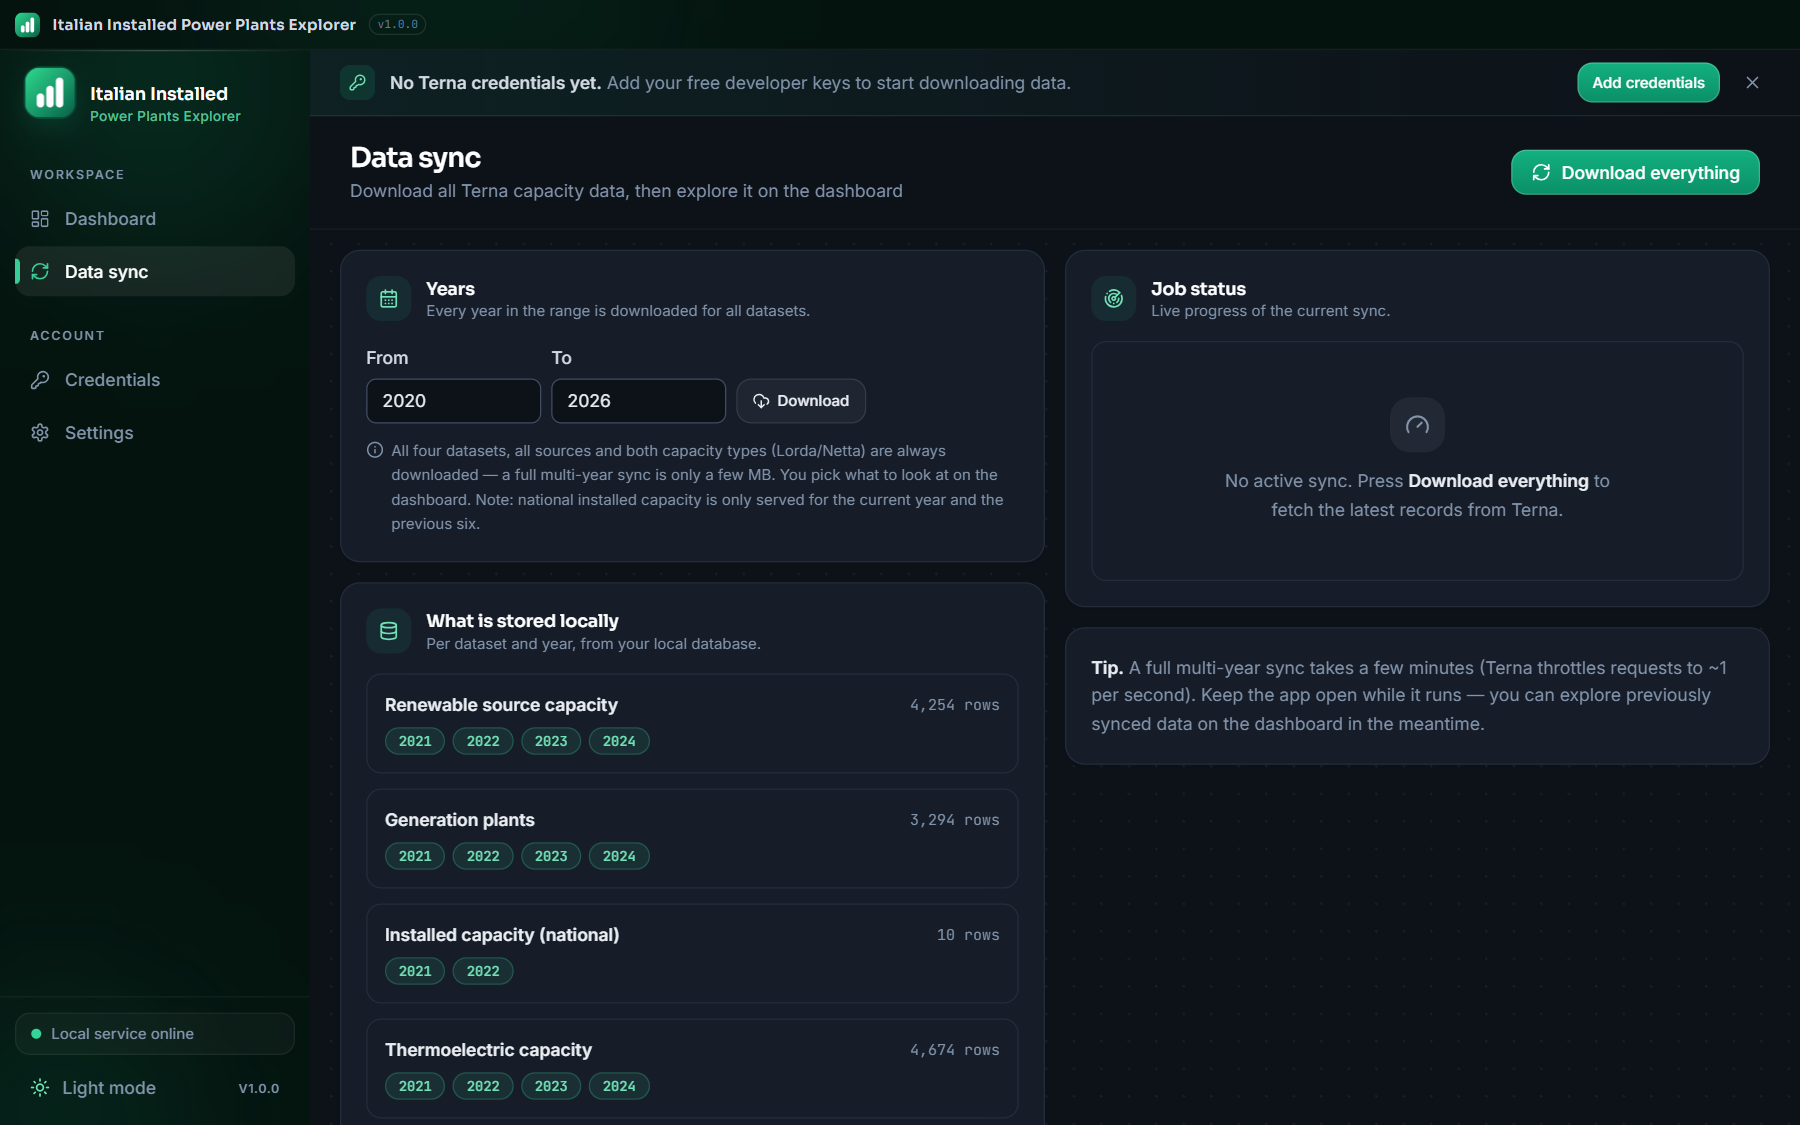
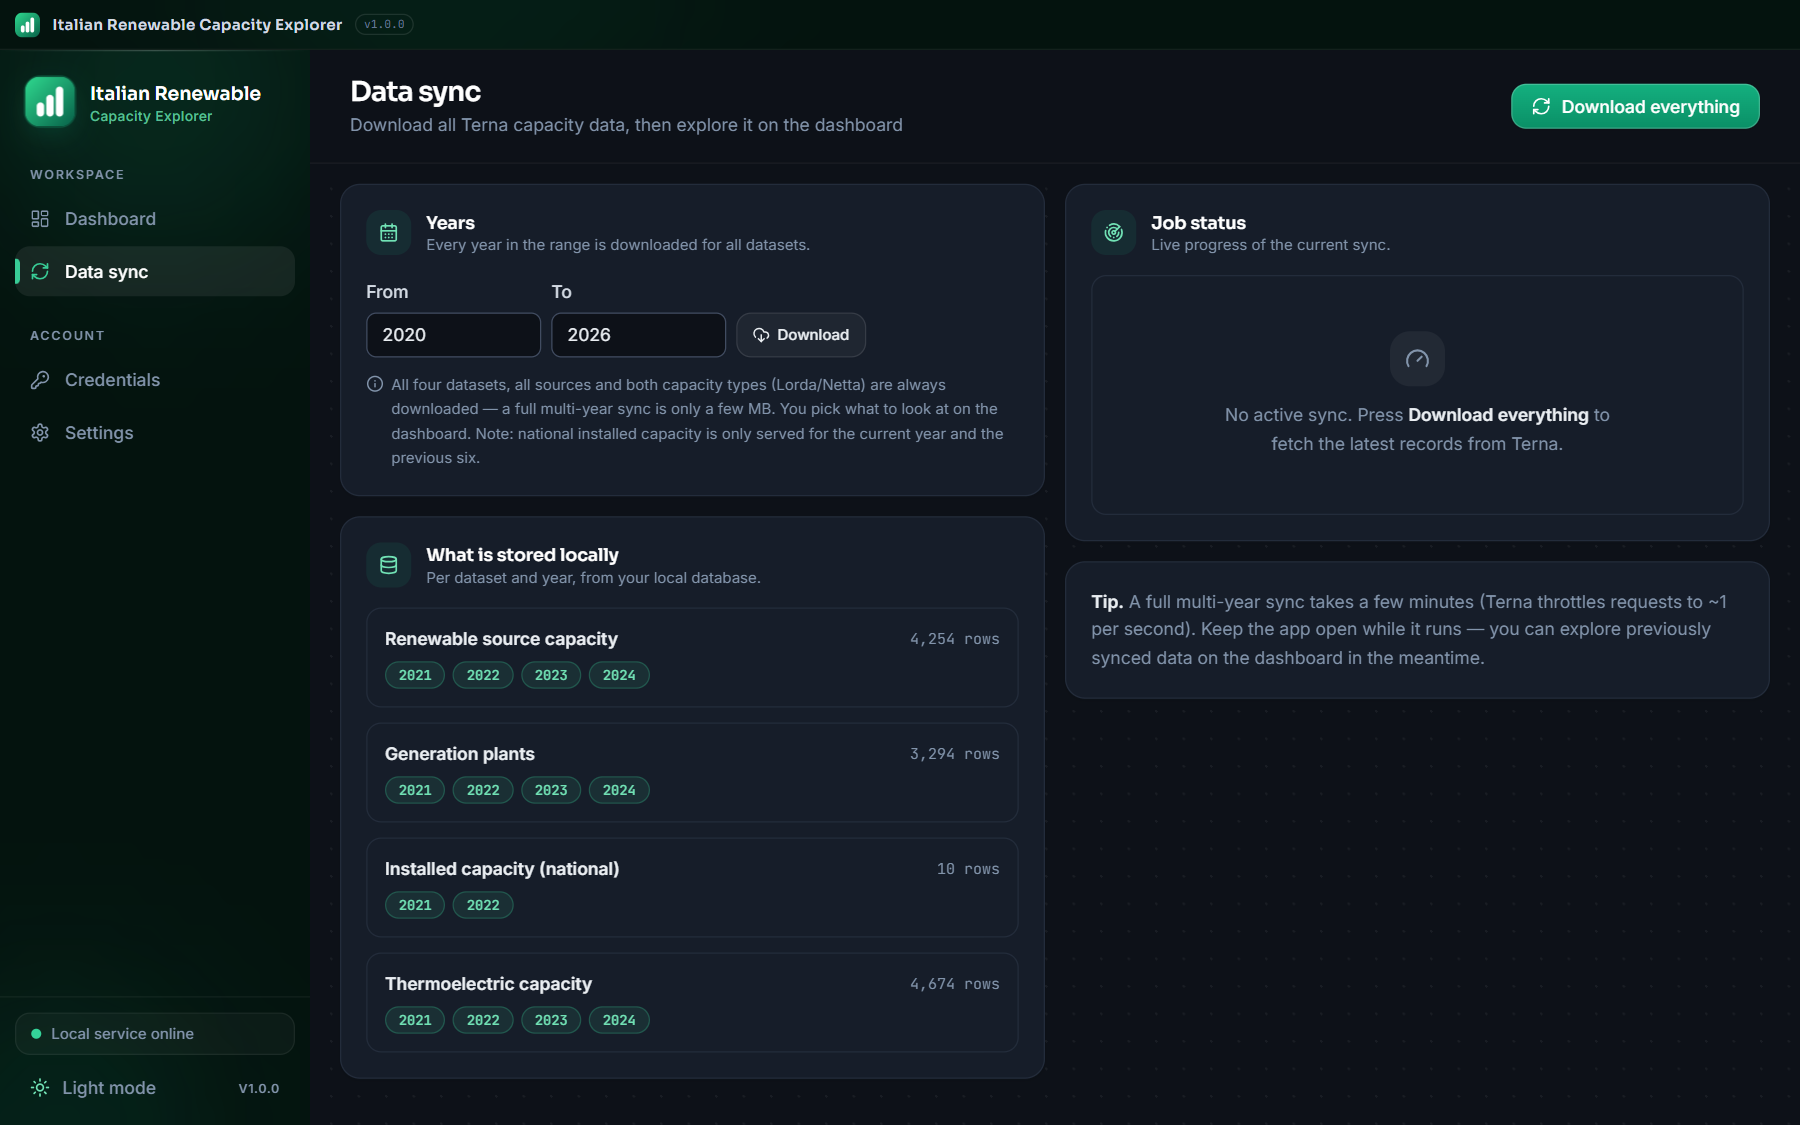
Final name: Italian Renewable Capacity Explorer
Renames the product, package, repository slug, PWA manifest, window title, sidebar and documentation; the data folder migrates from every previous name (ItalianInstalledPowerPlantsExplorer, ItalianCapacityExplorer, TernaInstalledCapacity) with the cache intact. Descriptions across README, package.json, index.html and the manifest now state that the app covers renewable capacity, with thermoelectric and national totals for comparison.

diff --git a/static/index.html b/static/index.html
@@ -6,24 +6,24 @@
     <link rel="manifest" href="/manifest.webmanifest" />
     <link rel="apple-touch-icon" href="/icon-192.png" />
     <meta name="viewport" content="width=device-width, initial-scale=1.0" />
-    <meta name="description" content="Italian Installed Power Plants Explorer — explore installed generation capacity across Italy, locally on your desktop." />
+    <meta name="description" content="Italian Renewable Capacity Explorer — solar, wind, hydro, bioenergy and geothermal capacity across Italy, locally on your desktop." />
     <meta name="theme-color" content="#04130e" />
     <meta property="og:type" content="website" />
-    <meta property="og:title" content="Italian Installed Power Plants Explorer" />
+    <meta property="og:title" content="Italian Renewable Capacity Explorer" />
     <meta property="og:description" content="Explore Italy's installed generation capacity locally, with Terna data." />
     <meta property="og:image" content="/og-image.png" />
     <meta property="og:image:width" content="1200" />
     <meta property="og:image:height" content="630" />
     <meta name="twitter:card" content="summary_large_image" />
-    <meta name="twitter:title" content="Italian Installed Power Plants Explorer" />
+    <meta name="twitter:title" content="Italian Renewable Capacity Explorer" />
     <meta name="twitter:description" content="Explore Italy's installed generation capacity locally, with Terna data." />
     <meta name="twitter:image" content="/og-image.png" />
-    <title>Italian Installed Power Plants Explorer</title>
-    <script type="module" crossorigin src="/assets/index-BXP3dStF.js"></script>
+    <title>Italian Renewable Capacity Explorer</title>
+    <script type="module" crossorigin src="/assets/index-BqjnZa1x.js"></script>
     <link rel="modulepreload" crossorigin href="/assets/vendor-react-CTF3l6S7.js">
     <link rel="modulepreload" crossorigin href="/assets/vendor-query-BX4wGWa-.js">
     <link rel="modulepreload" crossorigin href="/assets/vendor-charts-Bp6O3Z6U.js">
-    <link rel="stylesheet" crossorigin href="/assets/index-CU5AfCiO.css">
+    <link rel="stylesheet" crossorigin href="/assets/index-BtmEehbX.css">
   </head>
   <body>
     <div id="root"></div>

diff --git a/tests/settings.test.ts b/tests/settings.test.ts
@@ -14,7 +14,11 @@ afterEach(() => {
 
 test("la cartella dati migra dai nomi precedenti a quello attuale", () => {
   delete process.env.TERNA_APP_DATA_DIR;
-  for (const legacyName of ["ItalianCapacityExplorer", "TernaInstalledCapacity"]) {
+  for (const legacyName of [
+    "ItalianInstalledPowerPlantsExplorer",
+    "ItalianCapacityExplorer",
+    "TernaInstalledCapacity",
+  ]) {
     const root = mkdtempSync(join(tmpdir(), "ice-root-"));
     const legacy = join(root, legacyName);
     mkdirSync(legacy, { recursive: true });
@@ -22,7 +26,7 @@ test("la cartella dati migra dai nomi precedenti a quello attuale", () => {
 
     const resolved = appDataDir(root);
 
-    expect(resolved).toBe(join(root, "ItalianInstalledPowerPlantsExplorer"));
+    expect(resolved).toBe(join(root, "ItalianRenewableCapacityExplorer"));
     expect(existsSync(join(resolved, "settings.json"))).toBe(true);
     expect(existsSync(legacy)).toBe(false);
   }
@@ -31,11 +35,11 @@ test("la cartella dati migra dai nomi precedenti a quello attuale", () => {
 test("se esistono entrambe vince la cartella nuova", () => {
   delete process.env.TERNA_APP_DATA_DIR;
   const root = mkdtempSync(join(tmpdir(), "ice-root-"));
-  mkdirSync(join(root, "ItalianCapacityExplorer"), { recursive: true });
   mkdirSync(join(root, "ItalianInstalledPowerPlantsExplorer"), { recursive: true });
+  mkdirSync(join(root, "ItalianRenewableCapacityExplorer"), { recursive: true });
 
-  expect(appDataDir(root)).toBe(join(root, "ItalianInstalledPowerPlantsExplorer"));
-  expect(existsSync(join(root, "ItalianCapacityExplorer"))).toBe(true);
+  expect(appDataDir(root)).toBe(join(root, "ItalianRenewableCapacityExplorer"));
+  expect(existsSync(join(root, "ItalianInstalledPowerPlantsExplorer"))).toBe(true);
 });
 
 test("le credenziali salvano il client id nel file e il segreto nel portachiavi", async () => {

diff --git a/index.html b/index.html
@@ -6,19 +6,19 @@
     <link rel="manifest" href="/manifest.webmanifest" />
     <link rel="apple-touch-icon" href="/icon-192.png" />
     <meta name="viewport" content="width=device-width, initial-scale=1.0" />
-    <meta name="description" content="Italian Installed Power Plants Explorer — explore installed generation capacity across Italy, locally on your desktop." />
+    <meta name="description" content="Italian Renewable Capacity Explorer — solar, wind, hydro, bioenergy and geothermal capacity across Italy, locally on your desktop." />
     <meta name="theme-color" content="#04130e" />
     <meta property="og:type" content="website" />
-    <meta property="og:title" content="Italian Installed Power Plants Explorer" />
+    <meta property="og:title" content="Italian Renewable Capacity Explorer" />
     <meta property="og:description" content="Explore Italy's installed generation capacity locally, with Terna data." />
     <meta property="og:image" content="/og-image.png" />
     <meta property="og:image:width" content="1200" />
     <meta property="og:image:height" content="630" />
     <meta name="twitter:card" content="summary_large_image" />
-    <meta name="twitter:title" content="Italian Installed Power Plants Explorer" />
+    <meta name="twitter:title" content="Italian Renewable Capacity Explorer" />
     <meta name="twitter:description" content="Explore Italy's installed generation capacity locally, with Terna data." />
     <meta name="twitter:image" content="/og-image.png" />
-    <title>Italian Installed Power Plants Explorer</title>
+    <title>Italian Renewable Capacity Explorer</title>
   </head>
   <body>
     <div id="root"></div>

diff --git a/server/cli.ts b/server/cli.ts
@@ -45,7 +45,7 @@ function parseArgs(argv: string[]): CliOptions {
   --browser     apre il browser di sistema invece della finestra app
   --no-window   avvia solo il server locale
   --port N      forza la porta (default: libera scelta dal sistema)
-  --data-dir    cartella dati alternativa (default: %APPDATA%/ItalianInstalledPowerPlantsExplorer)`);
+  --data-dir    cartella dati alternativa (default: %APPDATA%/ItalianRenewableCapacityExplorer)`);
       process.exit(0);
     }
   }
@@ -82,7 +82,7 @@ function main(): void {
     // il log non è critico: se la cartella non è scrivibile si prosegue
   }
 
-  console.log(`Italian Installed Power Plants Explorer in ascolto su ${app.url}`);
+  console.log(`Italian Renewable Capacity Explorer in ascolto su ${app.url}`);
   console.log(`Dati in ${app.settings.load().dataDir}`);
   if (app.portFallback) {
     console.warn(`Porta preferita occupata: uso ${app.port}. La PWA installata punta alla porta stabile.`);

diff --git a/src/pages/SettingsPage.tsx b/src/pages/SettingsPage.tsx
@@ -127,7 +127,7 @@ export function SettingsPage() {
             <p className="flex items-start gap-2.5">
               <Info className="mt-0.5 h-4 w-4 shrink-0 text-brand-600 dark:text-brand-400" />
               <span>
-                Italian Installed Power Plants Explorer lets you explore <em>installed generation capacity</em> across Italy&apos;s
+                Italian Renewable Capacity Explorer lets you explore <em>installed generation capacity</em> across Italy&apos;s
                 regions and provinces — aggregated by the Terna Developer API and stored locally on your machine.
               </span>
             </p>

diff --git a/server/settings.ts b/server/settings.ts
@@ -9,9 +9,13 @@ import { join } from "node:path";
 
 import { createSecretStore, type SecretStore } from "./secrets.ts";
 
-const APP_DIR_NAME = "ItalianInstalledPowerPlantsExplorer";
+const APP_DIR_NAME = "ItalianRenewableCapacityExplorer";
 /** Cartelle usate prima della rinomina: la migrazione le segue in ordine. */
-const LEGACY_APP_DIR_NAMES = ["ItalianCapacityExplorer", "TernaInstalledCapacity"];
+const LEGACY_APP_DIR_NAMES = [
+  "ItalianInstalledPowerPlantsExplorer",
+  "ItalianCapacityExplorer",
+  "TernaInstalledCapacity",
+];
 export const SETTINGS_FILE = "settings.json";
 
 interface SettingsPayload {

diff --git a/src/components/layout/Sidebar.tsx b/src/components/layout/Sidebar.tsx
@@ -113,9 +113,9 @@ export function Sidebar() {
           <BrandMark className="h-10 w-10 rounded-xl shadow-glow" />
         </div>
         <div className="min-w-0">
-          <p className="font-display text-[14px] font-semibold leading-tight text-white">Italian Installed</p>
+          <p className="font-display text-[15px] font-semibold leading-tight text-white">Italian Renewable</p>
           <p className="truncate text-[11px] font-medium tracking-wide text-brand-300/80">
-            Power Plants Explorer
+            Capacity Explorer
           </p>
         </div>
       </div>

diff --git a/src/components/layout/TitleBar.tsx b/src/components/layout/TitleBar.tsx
@@ -16,7 +16,7 @@ export function TitleBar() {
       <div className="relative flex min-w-0 items-center gap-2.5 pl-3">
         <BrandMark className="h-5 w-5 rounded-md" />
         <span className="truncate font-display text-xs font-semibold tracking-wide text-ink-200">
-          Italian Installed Power Plants Explorer
+          Italian Renewable Capacity Explorer
         </span>
         <span className="hidden rounded-full border border-white/10 px-1.5 py-px font-mono text-[9px] text-ink-500 sm:inline">
           v{APP_VERSION}

diff --git a/src/pages/OnboardingPage.tsx b/src/pages/OnboardingPage.tsx
@@ -52,7 +52,7 @@ export function OnboardingPage() {
             <h1 className="mt-7 font-display text-[28px] font-semibold leading-tight tracking-tight text-white">
               Welcome to{" "}
               <span className="bg-gradient-to-r from-brand-300 to-emerald-200 bg-clip-text text-transparent">
-                Italian Installed Power Plants Explorer
+                Italian Renewable Capacity Explorer
               </span>
             </h1>
             <p className="mt-3 max-w-sm text-sm leading-relaxed text-ink-300">

diff --git a/src/components/ui/BrandMark.tsx b/src/components/ui/BrandMark.tsx
@@ -1,6 +1,6 @@
 export function BrandMark({ className }: { className?: string }) {
   return (
-    <svg viewBox="0 0 1024 1024" className={className} role="img" aria-label="Italian Installed Power Plants Explorer">
+    <svg viewBox="0 0 1024 1024" className={className} role="img" aria-label="Italian Renewable Capacity Explorer">
       <defs>
         <linearGradient id="brandmark-tile" x1="0" y1="0" x2="1" y2="1">
           <stop offset="0" stopColor="#2fd98f" />

diff --git a/server/secrets.ts b/server/secrets.ts
@@ -9,7 +9,7 @@
  */
 import { dlopen, FFIType, ptr, toArrayBuffer, type Pointer } from "bun:ffi";
 
-const SERVICE = "italian-installed-power-plants-explorer";
+const SERVICE = "italian-renewable-capacity-explorer";
 
 const crypt32 =
   process.platform === "win32"

diff --git a/scripts/generate-brand-assets.py b/scripts/generate-brand-assets.py
@@ -135,7 +135,7 @@ def draw_share_card(path: Path, size: tuple[int, int], *, height: int, top: int,
     body = font("segoeui.ttf", max(16, round(w * 0.018)))
     draw.text(
         (left, accent_y + 27),
-        "ITALIAN INSTALLED POWER PLANTS",
+        "ITALIAN RENEWABLE CAPACITY",
         font=small,
         fill=(113, 226, 181, 255),
     )
